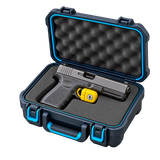
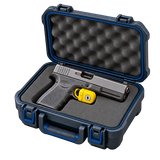
Refine firearms category discovery

diff --git a/src/routes/browse.tsx b/src/routes/browse.tsx
@@ -2271,6 +2271,12 @@ function Browse() {
               })
             }
           />
+          <HomepageShowcaseRows
+            topListings={result.listings}
+            eyebrow="Bluebird Marketplace Firearms"
+            rows={firearmShowcaseRows}
+            baseSearch={search}
+          />
         </>
       )}
 
@@ -3143,8 +3149,58 @@ const generalCategoryHighlights = [
   },
   { slug: "farm-garden", name: "Farm & Garden", description: "Yard, farm, and garden" },
   { slug: "pets", name: "Pets", description: "Dogs, cats, and supplies" },
-  { slug: "firearms", name: "Firearms", description: "Browse local firearm listings" },
 ] as const;
+
+const firearmShowcaseRows: HomepagePreviewRow[] = [
+  {
+    title: "Rifles near you",
+    action: "Browse rifles",
+    href: "/browse?category=firearms&firearmMode=results&firearmListingType=Firearm&firearmType=Rifle",
+    cards: [],
+  },
+  {
+    title: "Handguns near you",
+    action: "Browse handguns",
+    href: "/browse?category=firearms&firearmMode=results&firearmListingType=Firearm&firearmType=Handgun",
+    cards: [],
+  },
+  {
+    title: "Shotguns near you",
+    action: "Browse shotguns",
+    href: "/browse?category=firearms&firearmMode=results&firearmListingType=Firearm&firearmType=Shotgun",
+    cards: [],
+  },
+  {
+    title: "Ammunition",
+    action: "Shop ammunition",
+    href: "/browse?category=firearms&firearmMode=results&firearmListingType=Accessory&firearmAccessoryType=Ammunition",
+    cards: [],
+  },
+  {
+    title: "Optics and sights",
+    action: "Shop optics",
+    href: "/browse?category=firearms&firearmMode=results&firearmListingType=Accessory&firearmAccessoryType=Optics%20%26%20sights",
+    cards: [],
+  },
+  {
+    title: "Cases and secure storage",
+    action: "Shop cases and storage",
+    href: "/browse?category=firearms&firearmMode=results&firearmListingType=Accessory&firearmAccessoryType=Cases%20%26%20storage",
+    cards: [],
+  },
+  {
+    title: "Safes and locks",
+    action: "Shop safes and locks",
+    href: "/browse?category=firearms&firearmMode=results&firearmListingType=Accessory&firearmAccessoryType=Safes%20%26%20locks",
+    cards: [],
+  },
+  {
+    title: "Targets and range gear",
+    action: "Shop range gear",
+    href: "/browse?category=firearms&firearmMode=results&firearmListingType=Accessory&firearmAccessoryType=Targets%20%26%20range%20gear",
+    cards: [],
+  },
+];
 
 const petShowcaseRows: HomepagePreviewRow[] = [
   {

diff --git a/src/components/layout/SiteHeader.tsx b/src/components/layout/SiteHeader.tsx
@@ -400,11 +400,13 @@ export function SiteHeader() {
                 className={`${navLinkClass} w-[190px]`}
                 {...pinned}
               >
-                <CategoryArtwork
-                  slug="general"
-                  size={88}
-                  className="category-art--nav category-art--header"
-                />
+                <span className="category-header-art-frame category-header-art-frame--grounded">
+                  <CategoryArtwork
+                    slug="general"
+                    size={88}
+                    className="category-art--nav category-art--header"
+                  />
+                </span>
                 <span>All items</span>
               </Link>
             </li>
@@ -416,11 +418,19 @@ export function SiteHeader() {
                   className={navLinkClass}
                   {...pinned}
                 >
-                  <CategoryArtwork
-                    slug={c.slug}
-                    size={88}
-                    className="category-art--nav category-art--header"
-                  />
+                  <span
+                    className={`category-header-art-frame ${
+                      c.slug === "cars-trucks" || c.slug === "firearms"
+                        ? "category-header-art-frame--grounded"
+                        : ""
+                    }`}
+                  >
+                    <CategoryArtwork
+                      slug={c.slug}
+                      size={c.slug === "firearms" ? 72 : 88}
+                      className="category-art--nav category-art--header"
+                    />
+                  </span>
                   <span>{c.name}</span>
                 </Link>
               </li>

diff --git a/src/styles.css b/src/styles.css
@@ -316,6 +316,35 @@
     filter: drop-shadow(0 8px 5px rgb(34 32 27 / 18%));
   }
 
+  .category-header-art-frame {
+    position: relative;
+    isolation: isolate;
+    display: grid;
+    width: 88px;
+    height: 88px;
+    flex: none;
+    place-items: center;
+  }
+
+  .category-header-art-frame--grounded::after {
+    position: absolute;
+    bottom: 7px;
+    left: 50%;
+    z-index: 0;
+    width: 48px;
+    height: 7px;
+    content: "";
+    transform: translateX(-50%);
+    border-radius: 999px;
+    background: rgb(34 32 27 / 14%);
+    filter: blur(2px);
+  }
+
+  .category-header-art-frame > .category-art {
+    position: relative;
+    z-index: 1;
+  }
+
   .group:hover .category-art,
   .group:focus-visible .category-art {
     transform: translateY(-4px) rotate(-2deg) scale(1.04);
